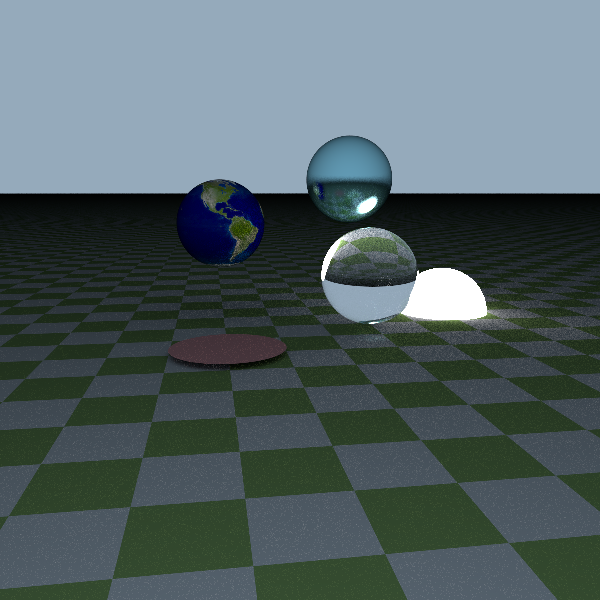
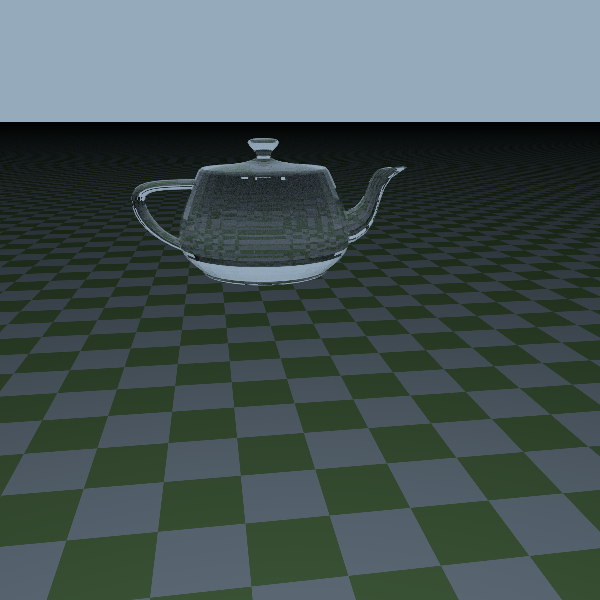
Translation works for all scene objects

diff --git a/src/ray/ray.c b/src/ray/ray.c
@@ -90,6 +90,7 @@ ray_intersect_extents(Ray ray, Extents *extents,
     return result;
 }
 
+ATTRIBUTE(noinline)
 static Vec3  
 ray_cast(CastState *state, Ray ray_init, HitRecord *hit_record)
 {    
@@ -114,22 +115,31 @@ ray_cast(CastState *state, Ray ray_init, HitRecord *hit_record)
     {
         Object object = scene->objects[object_index];
         
+        // Translate ray from world space to object space
+        Ray ray = make_ray(mat4x4_mul_vec3(object.transform.w2o, ray_init.origin), 
+                           mat4x4_as_3x3_mul_vec3(object.transform.w2o, ray_init.direction),
+                           ray_init.time);
+            
+        // Precompute dot products of normals with ray.
+        // When using instancing, each object rotates ray in his object space, 
+        // so dots have to be done with each transfromed ray.
+        // @TODO(hl): Think if we can use per-transform precomputed rays              
+        for (u32 i = 0;
+		     i < BVH_NUM_PLANE_SET_NORMALS;
+		     ++i)
+        {
+            precomputed_numerator[i]   = dot(plane_set_normals[i], ray.origin);
+            precomputed_denumerator[i] = dot(plane_set_normals[i], ray.direction);
+        }
+        
         switch(object.type)
         {
             case Object_Sphere:
             {
-                // Ray ray = make_ray(mat4x4_mul_vec3(object.transform.w2o, ray_init.origin), 
-                //                    mat4x4_as_3x3_mul_vec3(object.transform.w2o, ray_init.direction),
-                //                    ray_init.time);
-                Ray ray = ray_init;
-                ray.origin = mat4x4_mul_vec3(object.transform.w2o, ray_init.origin);
-                
-                Vec3 sphere_pos = {0};
                 Sphere sphere = object.sphere;
-                Vec3 sphere_relative_ray_origin = vec3_sub(ray.origin, sphere_pos);
                 f32 a = dot(ray.direction, ray.direction);
-                f32 b = 2.0f * dot(sphere_relative_ray_origin, ray.direction);
-                f32 c = dot(sphere_relative_ray_origin, sphere_relative_ray_origin) - sphere.radius * sphere.radius;
+                f32 b = 2.0f * dot(ray.origin, ray.direction);
+                f32 c = dot(ray.origin, ray.origin) - sphere.radius * sphere.radius;
                 
                 f32 denominator = 2.0f * a;
                 f32 root_term = sqrt32(b * b - 4.0f * a * c);
@@ -150,24 +160,20 @@ ray_cast(CastState *state, Ray ray_init, HitRecord *hit_record)
                         hit_record->distance = t;
                         hit_record->mat_index = object.mat_index;
                         // hit_record_set_normal(&hit_record, ray, normalize(vec3_add(sphere_relative_ray_origin, vec3_muls(ray.dir, hit_record->distance))));
-                        Vec3 normal = normalize(vec3_add(sphere_relative_ray_origin,
-                                                        vec3_muls(ray.direction, hit_record->distance)));
+                        Vec3 normal = normalize(vec3_add(ray.origin, vec3_muls(ray.direction, hit_record->distance)));
                         // @NOTE(hl): This should be extracted from previous computations
                         hit_record_set_normal(hit_record, ray, normal);
                         hit_record->normal = normal;
                         //hit_record->ray_dir_normal_dot = dot(hit_record->normal, ray.direction);
                         hit_record->hit_point = ray_point_at(ray, t);
-                        hit_record->uv = unit_sphere_get_uv(vec3_divs(vec3_sub(hit_record->hit_point, sphere_pos),
-                                                                    sphere.radius));
+                        hit_record->uv = unit_sphere_get_uv(vec3_divs(hit_record->hit_point, sphere.radius));
                     }
                 }
-                hit_record->hit_point = ray_point_at(ray_init, hit_record->distance);
             } break;
             case Object_Plane:
             {
                 Plane plane = object.plane;
                 
-                Ray ray = ray_init;
                 f32 denominator = dot(plane.normal, ray.direction);
                 if ((denominator < -tolerance) || (denominator > tolerance))
                 {
@@ -176,7 +182,6 @@ ray_cast(CastState *state, Ray ray_init, HitRecord *hit_record)
                     {
                         hit_record->distance = t;
                         hit_record->mat_index = object.mat_index;
-                        // hit_record->ray_dir_normal_dot = denominator;
                         hit_record_set_normal(hit_record, ray, plane.normal);
                         hit_record->hit_point = ray_point_at(ray, t);
                         // @TODO(hl): These are not normalized!!
@@ -189,23 +194,22 @@ ray_cast(CastState *state, Ray ray_init, HitRecord *hit_record)
             {
                 Disk disk = object.disk;
                 
-                Ray ray = ray_init;
+                Vec3 disk_point = {0};
                 f32 denominator = dot(disk.normal, ray.direction);
                 if ((denominator < -tolerance) || (denominator > tolerance))
                 {
-                    Vec3 p010 = vec3_sub(disk.point, ray.origin);
+                    Vec3 p010 = vec3_sub(disk_point, ray.origin);
                     f32 t = dot(p010, disk.normal) / denominator;
                     if ((t > min_hit_distance) && (t < hit_record->distance))
                     {
                         Vec3 hit_point = ray_point_at(ray, t);
-                        Vec3 dist_to_center = vec3_sub(hit_point, disk.point);
+                        Vec3 dist_to_center = vec3_sub(hit_point, disk_point);
                         if (dot(dist_to_center, dist_to_center) < square(disk.radius))
                         {
                             hit_record->distance = t;
                             hit_record->mat_index = object.mat_index;
-                            //hit_record->ray_dir_normal_dot = denominator;
+                            hit_record->hit_point = ray_point_at(ray, hit_record->distance);
                             hit_record_set_normal(hit_record, ray, disk.normal);
-                            hit_record->hit_point = hit_point;
                             // @TODO(hl): UV
                         }
                     }
@@ -215,7 +219,6 @@ ray_cast(CastState *state, Ray ray_init, HitRecord *hit_record)
             {
                 Triangle triangle = object.triangle;
                 
-                Ray ray = ray_init;
                 f32 t, u, v;
                 if (ray_intersect_triangle(ray, triangle.vertex0, triangle.vertex1, triangle.vertex2, &t, &u, &v))
                 {
@@ -223,8 +226,8 @@ ray_cast(CastState *state, Ray ray_init, HitRecord *hit_record)
                     {
                         hit_record->distance = t;
                         hit_record->mat_index = object.mat_index;
+                        hit_record->hit_point = ray_point_at(ray, hit_record->distance);
                         hit_record_set_normal(hit_record, ray, triangle.normal);
-                        hit_record->hit_point = ray_point_at(ray, t);
                         hit_record->uv = vec2(u, v);
                     }
                 }
@@ -245,13 +248,12 @@ ray_cast(CastState *state, Ray ray_init, HitRecord *hit_record)
             {
                 TriangleMesh mesh = object.triangle_mesh;
                  
-                Ray ray = ray_init;
                 f32 tnear = F32_MIN;
                 f32 tfar  = F32_MAX;
                 u32 plane_index;
                 if (ray_intersect_extents(ray, &mesh.bvh.extents, 
-                                        precomputed_numerator, precomputed_denumerator, 
-                                        &tnear, &tfar, &plane_index))
+                                          precomputed_numerator, precomputed_denumerator, 
+                                          &tnear, &tfar, &plane_index))
                 {
 #if 0 
                     // This code path for testing intersection with just bounding volume
@@ -296,8 +298,8 @@ ray_cast(CastState *state, Ray ray_init, HitRecord *hit_record)
                                 hit_record->distance = t;
                                 hit_record->mat_index = object.mat_index;
                                 //hit_record->ray_dir_normal_dot = dot(normal, ray.direction);
+                                hit_record->hit_point = ray_point_at(ray, hit_record->distance);
                                 hit_record_set_normal(hit_record, ray, normal);
-                                hit_record->hit_point = ray_point_at(ray, t);
                                 hit_record->uv = vec2(u, v);
                             }
                         }
@@ -308,12 +310,16 @@ ray_cast(CastState *state, Ray ray_init, HitRecord *hit_record)
                 }
             } break;
         }
+    
+        // @NOTE(hl): Assuming scale between object and world space is not changed, 
+        // hit distance is the same. Thus, we can just use it to computate hit point    
+        hit_record->hit_point = ray_point_at(ray_init, hit_record->distance);
     }
     
     return ray_cast_color;
 }
 
-ATTRIBUTE(flatten) ATTRIBUTE(hot)
+ATTRIBUTE(flatten) ATTRIBUTE(hot) ATTRIBUTE(noinline)
 static void 
 cast_sample_rays(CastState *state)
 {
@@ -546,8 +552,8 @@ triangle_mesh(u32 nfaces, u32 *fi, u32 *vi, Vec3 *p, Vec3 *n, Vec2 *st)
          plane_normal_index < BVH_NUM_PLANE_SET_NORMALS;
          ++plane_normal_index)
     {
-        f32 dmin = F32_MAX;
-        f32 dmax = F32_MIN;
+        f32 dmin = F32_INF;
+        f32 dmax = F32_MINF;
         
         for (u32 vertex_index = 0;
              vertex_index < result.max_vertex_index;
@@ -676,9 +682,11 @@ make_poly_sphere(f32 r, u32 divs)
     return triangle_mesh(npolys, faceIndex, vertsIndex, P, N, st); 
 }
 
-void 
-make_utah_teapot(TriangleMesh *meshes) 
+Object * 
+make_utah_teapot(Object *objects) 
 { 
+    Object *current_object = objects;
+    
     uint32_t divs = 8; 
     Vec3 *P = calloc((divs + 1) * (divs + 1), sizeof(Vec3)); 
     Vec3 *N = calloc((divs + 1) * (divs + 1), sizeof(Vec3)); 
@@ -724,11 +732,13 @@ make_utah_teapot(TriangleMesh *meshes)
         
         for (u32 i = 0; i < (divs + 1) * (divs + 1); ++i)
         {
-            P[i].z -= 5.0f;
+            // P[i].z += 5.0f;
         }
-        
-        meshes[np] = triangle_mesh(divs * divs, nvertices, vertices, P, N, st);
+        Transform transform = make_transform_translate(vec3(-1, -1 , 1));
+        object_init_triangle_mesh(current_object++, transform, triangle_mesh(divs * divs, nvertices, vertices, P, N, st), 2);
     }
+    
+    return current_object;
 } 
 
 // Returns scene with same objects in it
@@ -781,27 +791,30 @@ init_sample_scene(Scene *scene, ImageU32 *image)
     // object_init_sphere(current_object++, make_transform_translate(vec3(-3, 2, 0)), (Sphere) {
     //     .radius = 2.0f
     // }, 6);
-    object_init_sphere(current_object++, make_transform_translate(vec3(3, -2, 0)), (Sphere) {
-        .radius = 1.0f
-    }, 3);
-    object_init_sphere(current_object++, make_transform_translate(vec3(-2, -1, 2)), (Sphere) {
-        .radius = 1.0f
-    }, 4);
-    object_init_sphere(current_object++, make_transform_translate(vec3(1, -1, 3)), (Sphere) {
-        .radius = 1.0f
-    }, 5);
-    object_init_sphere(current_object++, make_transform_translate(vec3(1, -3, 1)), (Sphere) {
-        .radius = 1.0f
-    }, 2);
-    object_init_disk(current_object++, make_transform_translate(vec3(-3, 2, 0)), (Disk) {
-        .point = vec3(-2, -5, 0.1f),
-        .normal = vec3(0, 0, 1),
-        .radius = 1.0f
-    }, 8);    
+    // object_init_sphere(current_object++, make_transform_translate(vec3(3, -2, 0)), (Sphere) {
+    //     .radius = 1.0f
+    // }, 3);
+    // object_init_sphere(current_object++, make_transform_translate(vec3(-2, -1, 2)), (Sphere) {
+    //     .radius = 1.0f
+    // }, 4);
+    // object_init_sphere(current_object++, make_transform_translate(vec3(1, -1, 3)), (Sphere) {
+    //     .radius = 1.0f
+    // }, 5);
+    // object_init_sphere(current_object++, make_transform_translate(vec3(1, -3, 1)), (Sphere) {
+    //     .radius = 1.0f
+    // }, 2);
+    // object_init_disk(current_object++, make_transform_translate(vec3(-2, -5, 0.1f)), (Disk) {
+    //     .normal = vec3(0, 0, 1),
+    //     .radius = 1.0f
+    // }, 8);    
+    
+    // object_init_triangle_mesh(current_object++, make_transform_translate(vec3(-3, 2, 0)), make_poly_sphere(2, 10), 5);    
+    current_object = make_utah_teapot(current_object);
     scene->objects = objects;
     scene->object_count = current_object - objects;
-       
-    scene->camera = make_camera(vec3_muls(vec3(-1.5, -10, 1.8), 1.5f), image);
+    printf("Object count %u\n", scene->object_count);
+    
+    scene->camera = make_camera(vec3_muls(vec3(-1.5, -10, 3), 1.5f), image);
 	
     scene->material_count = array_size(materials);
     scene->materials = materials;
@@ -1175,9 +1188,7 @@ main(int argc, char **argv)
          core_index < core_count;
          ++core_index)
     {
-#if !D
         sys_create_thread(render_thread_proc, &queue);
-#endif 
     }
 	
     // Main thread work
